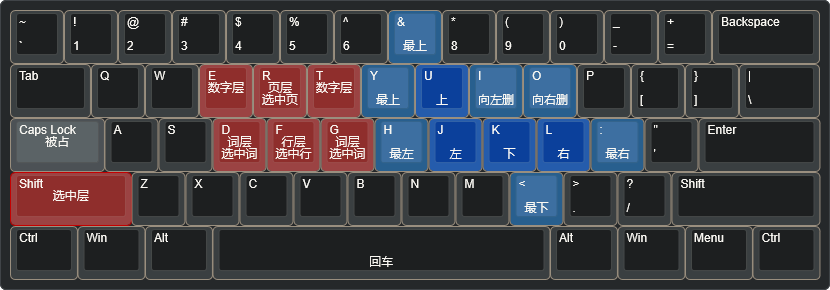
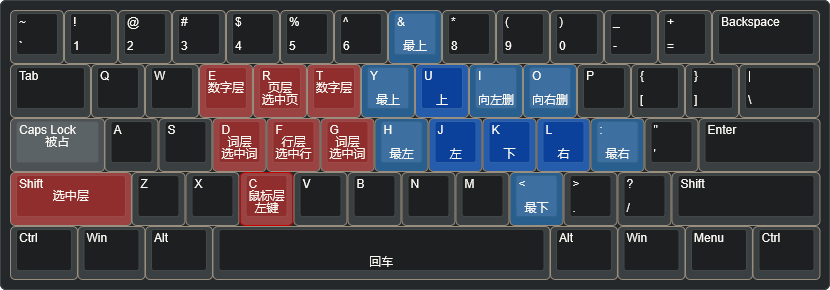
docs: add quick_keys mouse

Changed region(s): [[0.2711, 0.5897, 0.3614, 0.8069], [0.0, 0.5897, 0.1506, 0.6207], [0.0301, 0.7759, 0.1506, 0.8069]]

diff --git a/src/Tauri/src-tauri/src/ad_shortcut.rs b/src/Tauri/src-tauri/src/ad_shortcut.rs
@@ -170,6 +170,7 @@ pub fn init_ad_shortcut(app_handle: tauri::AppHandle) {
                 caps_cursor_active.set(false);
                 return None
             }
+            // TODO 支持斜方向键
             if event.event_type == EventType::KeyPress(Key::KeyU) { let _ = enigo.move_mouse(0, -MOUSE_STEP, enigo::Coordinate::Rel); return None }
             if event.event_type == EventType::KeyPress(Key::KeyJ) { let _ = enigo.move_mouse(-MOUSE_STEP, 0, enigo::Coordinate::Rel); return None }
             if event.event_type == EventType::KeyPress(Key::KeyK) { let _ = enigo.move_mouse(0, MOUSE_STEP, enigo::Coordinate::Rel); return None }

diff --git a/docs/zh/quick_keys/keyboard-layout-backup.md b/docs/zh/quick_keys/keyboard-layout-backup.md
@@ -18,7 +18,7 @@
 ["~\n`","!\n1","@\n2","#\n3","$\n4","%\n5","^\n6",{c:"#2D6CA1"},"&\n\n\n\n\n\n\n\n\n\n最上",{c:"#cccccc"},"*\n8","(\n9",")\n0","_\n-","+\n=",{w:2},"Backspace"],
 [{w:1.5},"Tab","Q","W",{c:"#b35050"},"E\n\n\n\n\n\n\n\n\n数字层","R\n\n\n\n\n\n\n\n\n页层\n选中页","T\n\n\n\n\n\n\n\n\n数字层",{c:"#2D6CA1"},"Y\n\n\n\n\n\n\n\n\n\n最上",{c:"#407DD5"},"U\n\n\n\n\n\n\n\n\n\n上",{c:"#2D6CA1"},"I\n\n\n\n\n\n\n\n\n\n向左删","O\n\n\n\n\n\n\n\n\n\n向右删",{c:"#cccccc"},"P","{\n[","}\n]",{w:1.5},"|\n\\"],
 [{c:"#615555",w:1.75},"Caps Lock\n\n\n\n\n\n\n\n\n被占",{c:"#cccccc"},"A","S",{c:"#b35050"},"D\n\n\n\n\n\n\n\n\n词层\n选中词","F\n\n\n\n\n\n\n\n\n行层\n选中行","G\n\n\n\n\n\n\n\n\n词层\n选中词",{c:"#2D6CA1"},"H\n\n\n\n\n\n\n\n\n\n最左",{c:"#407DD5"},"J\n\n\n\n\n\n\n\n\n\n左","K\n\n\n\n\n\n\n\n\n\n下","L\n\n\n\n\n\n\n\n\n\n右",{c:"#2D6CA1"},":\n\n\n\n\n\n\n\n\n\n最右",{c:"#cccccc"},"\"\n'",{w:2.25},"Enter"],
-[{c:"#b35050",w:2.25},"Shift\n\n\n\n\n\n\n\n\n选中层",{c:"#cccccc"},"Z","X","C","V","B","N","M",{c:"#2D6CA1"},"<\n\n\n\n\n\n\n\n\n\n最下",{c:"#cccccc"},">\n.","?\n/",{w:2.75},"Shift"],
+[{c:"#b35050",w:2.25},"Shift\n\n\n\n\n\n\n\n\n选中层",{c:"#cccccc"},"Z","X",{c:"#b35050"},"C\n\n\n\n\n\n\n\n\n鼠标层\n左键",{c:"#cccccc"},"V","B","N","M",{c:"#2D6CA1"},"<\n\n\n\n\n\n\n\n\n\n最下",{c:"#cccccc"},">\n.","?\n/",{w:2.75},"Shift"],
 [{w:1.25},"Ctrl",{w:1.25},"Win",{w:1.25},"Alt",{a:5,w:6.25},"\n回车",{a:4,w:1.25},"Alt",{w:1.25},"Win",{w:1.25},"Menu",{w:1.25},"Ctrl"]
 ```
 
@@ -44,6 +44,16 @@
 [{w:1.25},"Ctrl",{w:1.25},"Win",{w:1.25},"Alt",{a:7,w:6.25},"",{a:4,w:1.25},"Alt",{w:1.25},"Win",{w:1.25},"Menu",{w:1.25},"Ctrl"]
 ```
 
+## Caps-鼠标层
+
+```json
+["~\n`","!\n1","@\n2","#\n3","$\n4","%\n5","^\n6",{c:"#2D6CA1"},"&\n\n\n\n\n\n\n\n\n\n上大移",{c:"#cccccc"},"*\n8","(\n9",")\n0","_\n-","+\n=",{w:2},"Backspace"],
+[{w:1.5},"Tab","Q","W","E","R","T",{c:"#2D6CA1"},"Y\n\n\n\n\n\n\n\n\n\n上大移",{c:"#407DD5"},"U\n\n\n\n\n\n\n\n\n\n上移",{c:"#2D6CA1"},"I\n\n\n\n\n\n\n\n\n\n左键","O\n\n\n\n\n\n\n\n\n\n右键",{c:"#cccccc"},"P","{\n[","}\n]",{w:1.5},"|\n\\"],
+[{c:"#615555",w:1.75},"Caps Lock\n\n\n\n\n\n\n\n\n被占",{c:"#cccccc"},"A","S","D","F","G",{c:"#2D6CA1"},"H\n\n\n\n\n\n\n\n\n\n左大移",{c:"#407DD5"},"J\n\n\n\n\n\n\n\n\n\n左移","K\n\n\n\n\n\n\n\n\n\n下移","L\n\n\n\n\n\n\n\n\n\n右移",{c:"#2D6CA1"},":\n\n\n\n\n\n\n\n\n\n右大移",{c:"#cccccc"},"\"\n'",{w:2.25},"Enter"],
+[{w:2.25},"Shift","Z","X",{c:"#615555"},"C\n\n\n\n\n\n\n\n\n被占\n左键",{c:"#cccccc"},"V","B","N","M",{c:"#2D6CA1"},"<\n\n\n\n\n\n\n\n\n\n下大移",{c:"#cccccc"},">\n.","?\n/",{w:2.75},"Shift"],
+[{w:1.25},"Ctrl",{w:1.25},"Win",{w:1.25},"Alt",{a:7,w:6.25},"",{a:4,w:1.25},"Alt",{w:1.25},"Win",{w:1.25},"Menu",{w:1.25},"Ctrl"]
+```
+
 ## Caps-数字层
 
 ```json
@@ -55,9 +65,6 @@
 ```
 
 ## 符号层
-
-> [!warning]
-> with bug
 
 ```json
 ["~\n`","!\n1","@\n2","#\n3","$\n4","%\n5","^\n6","&\n7","*\n8","(\n9",")\n0","_\n-","+\n=",{w:2},"Backspace"],

diff --git a/docs/zh/quick_keys/Tutorial.md b/docs/zh/quick_keys/Tutorial.md
@@ -12,7 +12,7 @@
 
 ### 两个特殊层
 
-这里还有两个特殊层，但内容过少我就不另外制图了
+这里还有两个特殊层 (Shift 和 Ctrl)，但内容过少我就不另外制图了
 
 - Caps + 空格 = 回车
 - Shift + 空格 = Shift + 回车
@@ -44,6 +44,10 @@ Caps 与其子层与 Shift 按键完全兼容，**可以同时按住 Caps 和 Sh
 
 ![](../../assets/keyboard-layout-page.png)
 
+### Caps-鼠标层
+
+![](../../assets/keyboard-layout-mouse.png)
+
 ### Caps-数字层
 
 ![](../../assets/keyboard-layout-num.png)
@@ -51,7 +55,7 @@ Caps 与其子层与 Shift 按键完全兼容，**可以同时按住 Caps 和 Sh
 ### 符号层
 
 > [!warning]
-> with bug，当前的成对括号部分存在问题，无法在保证快速的前提下识别是否有选中内容
+> 对于 kanata 和 autohotkey 来说，当前的成对括号部分不是很好用，无法在保证快速的前提下识别是否有选中内容。AnyMenu 版本则无此问题
 
 ![](../../assets/keyboard-layout-sign.png)
 
